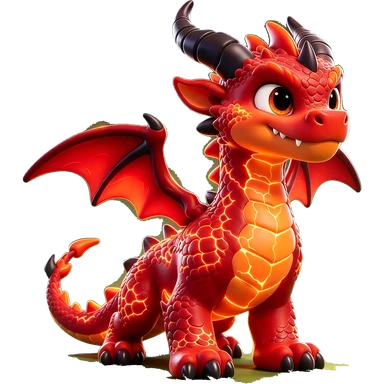
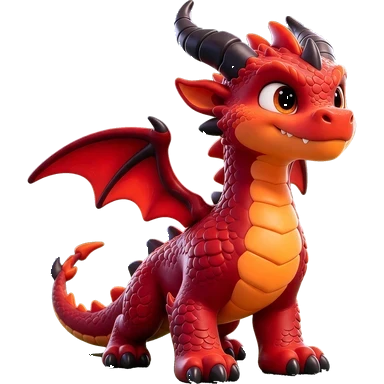
SR 級龍換 Sky 指定嘅圖
Claude-Session: https://claude.ai/code/session_01E2utfFQBUZUAHLnSXfgdjb

diff --git a/public/sw.js b/public/sw.js
@@ -1,5 +1,5 @@
 // 大富翁 service worker: keeps the app shell and art so the board opens without a network.
-const CACHE = "dafuweng-v146";
+const CACHE = "dafuweng-v147";
 const SHELL = [
   "/",
   "/manifest.webmanifest",
